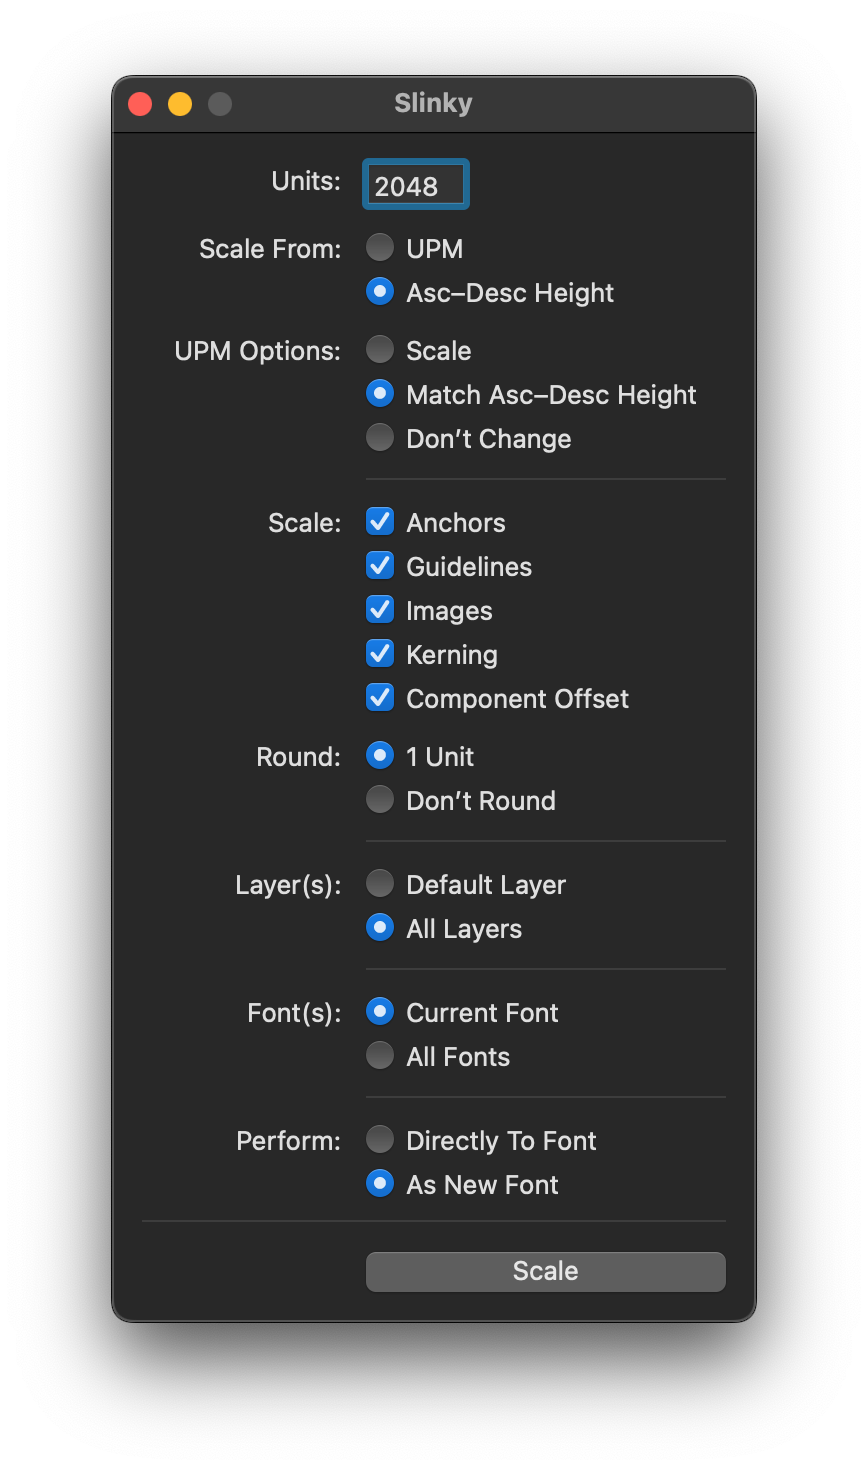
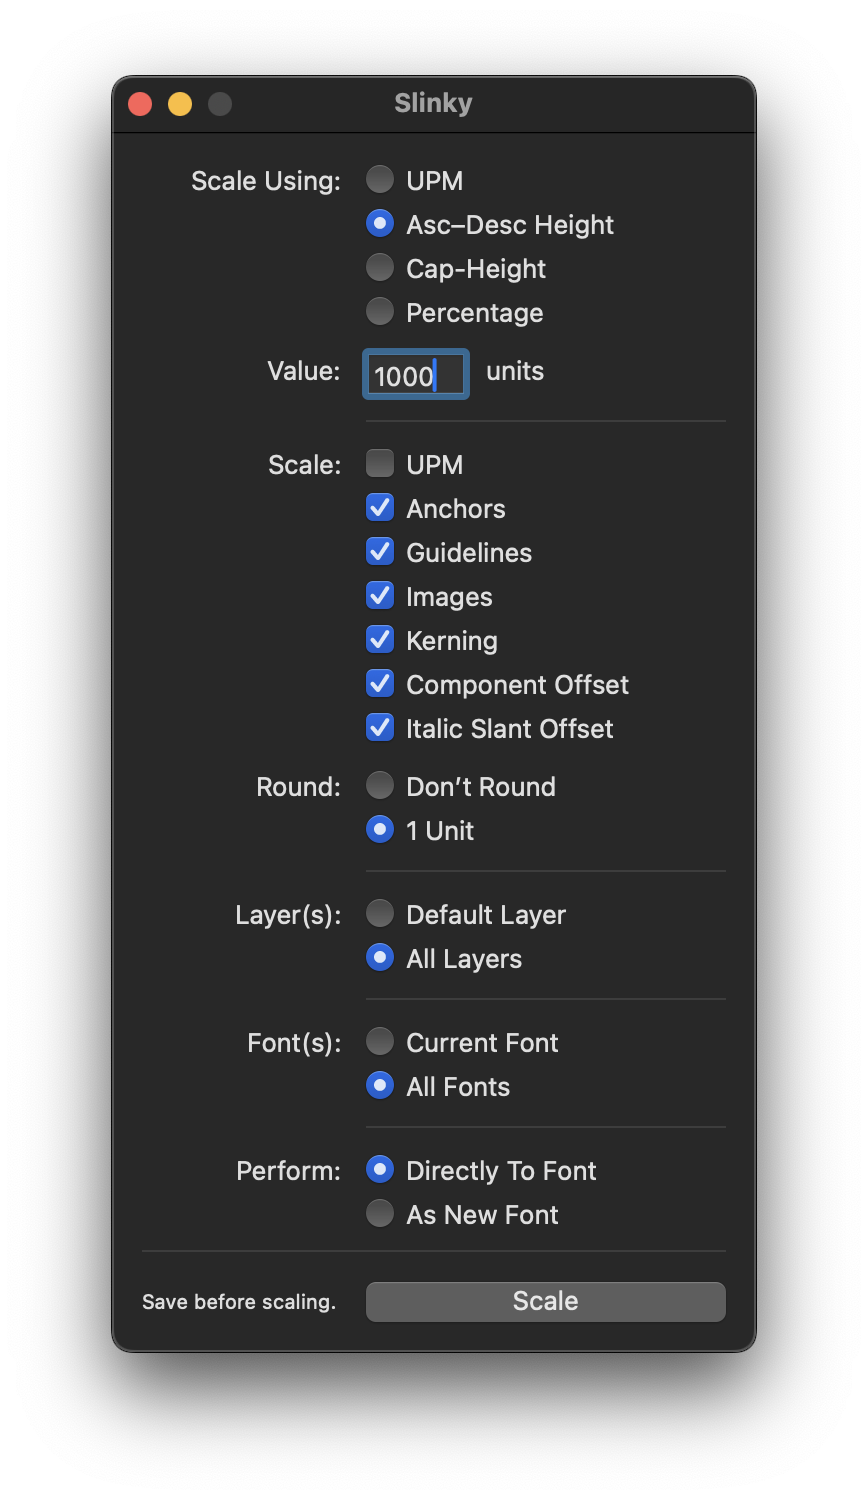
Update docs

diff --git a/rm_to_index.py b/rm_to_index.py
@@ -19,11 +19,5 @@ modified_content = content.replace('source/', '../')
 with open('source/html/index.md', 'w', encoding='utf-8') as file:
     file.write(modified_content)
 
-# # Convert markdown to HTML and save as index.html
-# markdown.markdownFromFile(
-#     input='source/html/index.md',
-#     output='source/html/index.html',
-#     encoding='utf-8'
-# )
 
 print("Files have been successfully created and modified.")

diff --git a/README.md b/README.md
@@ -4,44 +4,29 @@
 
 #### Slinky is a RoboFont extension for scaling your whole font up or down.
 
-You can choose a precise measurement (either UPM or Ascender-to-Descender height), set some settings, and it will do the rest.
+Choose a precise unit-based measurement (UPM, Ascender-to-Descender Height, Cap-Height) or a percentage, set some settings, and Slinky will do the rest.
 
 <img src="source/resources/ui.png"  width="300">
 
-## Units
-
-Enter your desired measurement here, measured in units.
 
 
-## Scale From
 
-This is what your measurement will correspond to. You can scale based on UPM, or your ascender-to-descender height. If you scale your UPM, everything (chosen to be scaled) will be scaled proportionately. If you scale your Ascender-to-Descender height, you'll have the option on how/whether UPM is changed...
+## Scale Using
 
+This is what your measurement will correspond to. You can scale based on UPM (units per em, a.k.a. the height of the glyph body), your ascender-to-descender height, your cap-height, or b a percentage. Where possible, you’ll have the option on which aspects of your font(s) get scaled...
 
-## UPM Options
+## Value
 
-These options are only available when Asc-Desc Height is enabled:
-
-#### Scale
-
-Scale the UPM proportionately to how you're scaling the ascender-to-descender height is being scaled. This will ensure the relationship between your font dimensions and your UPM is maintained.
-
-#### Match Asc-Desc Height
-
-This will snap the UPM to match the Unit measurement provided and match the distance between your ascender and descender.
-
-#### Don’t Change
-
-This will leave UPM unaffected while everything else scales around it. This is useful, for instance, if you've already got your UPM where you want it, but your glyphs/font dimensions are too small/big.
+Enter your desired measurement here, measured in units, unless Percentage is chosen above.
 
 ## Scale
 
-These are things you can choose to scale along with everything else. Usually it’s a good idea to leave all of these checked. 
-> Note: Components themselves will not be scaled, as this would scale things twice. However, it is recommended you scale the Component Offset (i.e. the positioning of the components). This will most likely lead to the desired results.
+These are things you can choose to scale along with everything else. Usually it’s a good idea to leave all of these checked (except for UPM, unless you're basing the scaling off the UPM). 
+> Note: Components themselves will not be scaled, as it would essentially scale things twice. It is recommended you scale the **Component Offset** (i.e. the positioning of the components). This will most likely lead to the desired results.
 
 ## Round
 
-When you scale drawings, there may be `float` numbers that no longer fit the grid you're working on. If you'd like to leave them `float` for now, choose Don’t Round. If you'd like your final drawings to be shimmied a bit to fit a 1-unit grid, choose 1 Unit.
+When you scale drawings, there may be `float` (decimal) numbers that no longer fit the grid you're working on. If you'd like to leave them `float` for now, choose Don’t Round. If you'd like your final drawings to be shimmied a bit to fit a 1-unit grid, choose 1 Unit.
 
 ## Layer(s)
 
@@ -49,10 +34,10 @@ Choose which layers you’d like to scale, either just the default layer (usuall
 
 ## Font(s)
 
-Choose which fonts you’d like to scale, either just the front-most `CurrentFont`, or all open fonts.
+Choose which fonts you’d like to scale, either just the front-most `Current Font`, or all open fonts.
 
 ## Perform...
 
-Choose whether you’d like to scale the font in-place, or whether you'd like Slinky to make a copy first and _then_ scale. 
+Choose whether you’d like to scale the font in-place, or whether you'd like Slinky to make a copy first, _then_ scale, and then open it. 
 
 > Note: If you scale the font in-place, just remember that it’s difficult to Undo this action. Be sure your work is saved before clicking Scale. In case the wrong move is made here, you can then close and reopen the UFO. It might be a good idea to try out “As New Font” and check the results before committing the same settings to the actual UFO in question.

diff --git a/source/html/index.md b/source/html/index.md
@@ -4,44 +4,29 @@
 
 #### Slinky is a RoboFont extension for scaling your whole font up or down.
 
-You can choose a precise measurement (either UPM or Ascender-to-Descender height), set some settings, and it will do the rest.
+Choose a precise unit-based measurement (UPM, Ascender-to-Descender Height, Cap-Height) or a percentage, set some settings, and Slinky will do the rest.
 
 <img src="../resources/ui.png"  width="300">
 
-## Units
-
-Enter your desired measurement here, measured in units.
 
 
-## Scale From
 
-This is what your measurement will correspond to. You can scale based on UPM, or your ascender-to-descender height. If you scale your UPM, everything (chosen to be scaled) will be scaled proportionately. If you scale your Ascender-to-Descender height, you'll have the option on how/whether UPM is changed...
+## Scale Using
 
+This is what your measurement will correspond to. You can scale based on UPM (units per em, a.k.a. the height of the glyph body), your ascender-to-descender height, your cap-height, or b a percentage. Where possible, you’ll have the option on which aspects of your font(s) get scaled...
 
-## UPM Options
+## Value
 
-These options are only available when Asc-Desc Height is enabled:
-
-#### Scale
-
-Scale the UPM proportionately to how you're scaling the ascender-to-descender height is being scaled. This will ensure the relationship between your font dimensions and your UPM is maintained.
-
-#### Match Asc-Desc Height
-
-This will snap the UPM to match the Unit measurement provided and match the distance between your ascender and descender.
-
-#### Don’t Change
-
-This will leave UPM unaffected while everything else scales around it. This is useful, for instance, if you've already got your UPM where you want it, but your glyphs/font dimensions are too small/big.
+Enter your desired measurement here, measured in units, unless Percentage is chosen above.
 
 ## Scale
 
-These are things you can choose to scale along with everything else. Usually it’s a good idea to leave all of these checked. 
-> Note: Components themselves will not be scaled, as this would scale things twice. However, it is recommended you scale the Component Offset (i.e. the positioning of the components). This will most likely lead to the desired results.
+These are things you can choose to scale along with everything else. Usually it’s a good idea to leave all of these checked (except for UPM, unless you're basing the scaling off the UPM). 
+> Note: Components themselves will not be scaled, as it would essentially scale things twice. It is recommended you scale the **Component Offset** (i.e. the positioning of the components). This will most likely lead to the desired results.
 
 ## Round
 
-When you scale drawings, there may be `float` numbers that no longer fit the grid you're working on. If you'd like to leave them `float` for now, choose Don’t Round. If you'd like your final drawings to be shimmied a bit to fit a 1-unit grid, choose 1 Unit.
+When you scale drawings, there may be `float` (decimal) numbers that no longer fit the grid you're working on. If you'd like to leave them `float` for now, choose Don’t Round. If you'd like your final drawings to be shimmied a bit to fit a 1-unit grid, choose 1 Unit.
 
 ## Layer(s)
 
@@ -49,10 +34,10 @@ Choose which layers you’d like to scale, either just the default layer (usuall
 
 ## Font(s)
 
-Choose which fonts you’d like to scale, either just the front-most `CurrentFont`, or all open fonts.
+Choose which fonts you’d like to scale, either just the front-most `Current Font`, or all open fonts.
 
 ## Perform...
 
-Choose whether you’d like to scale the font in-place, or whether you'd like Slinky to make a copy first and _then_ scale. 
+Choose whether you’d like to scale the font in-place, or whether you'd like Slinky to make a copy first, _then_ scale, and then open it. 
 
 > Note: If you scale the font in-place, just remember that it’s difficult to Undo this action. Be sure your work is saved before clicking Scale. In case the wrong move is made here, you can then close and reopen the UFO. It might be a good idea to try out “As New Font” and check the results before committing the same settings to the actual UFO in question.
